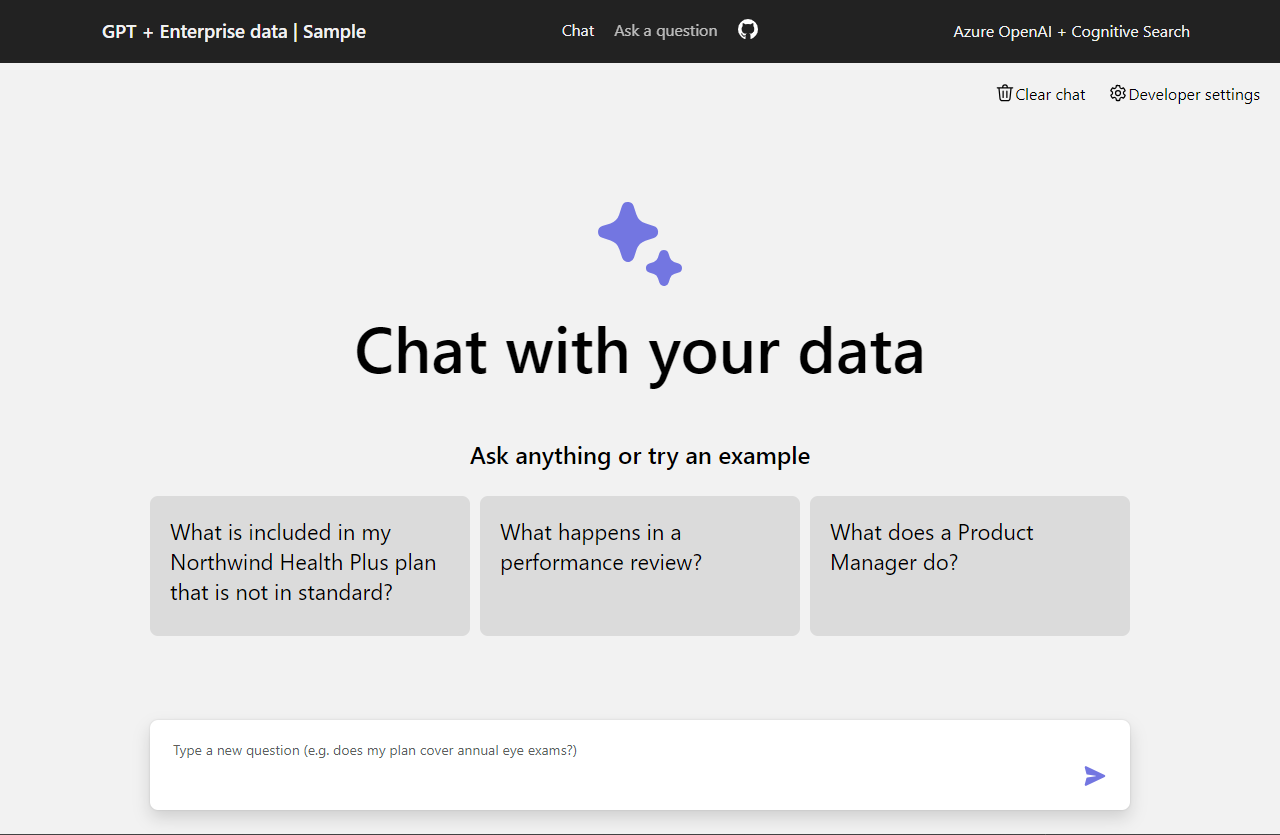
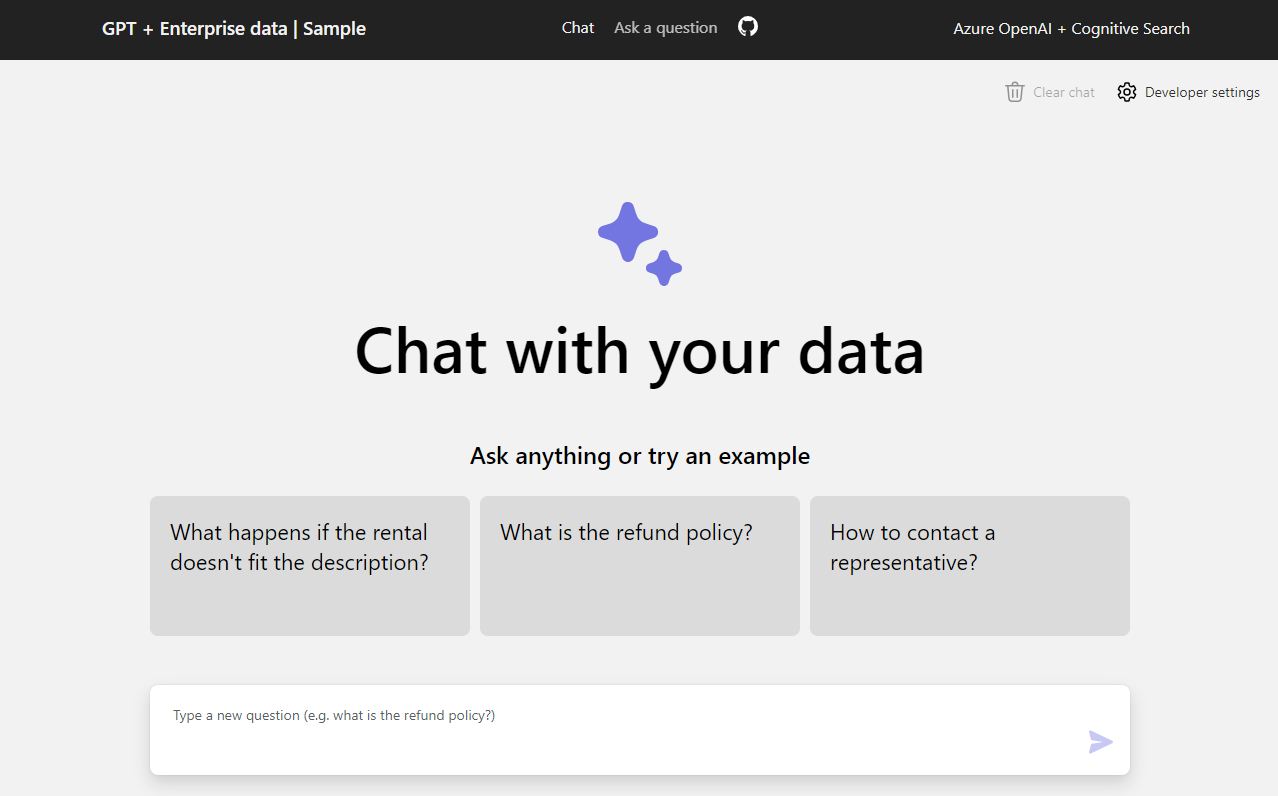
Switch to JS data set

diff --git a/articles/javascript/quickstart-intelligent-app-chat.md b/articles/javascript/quickstart-intelligent-app-chat.md
@@ -9,7 +9,9 @@ ms.custom: devx-track-javascript
 
 # Quickstart: Deploy an Azure OpenAI Chat app with your data in JavaScript
 
-In this quickstart, you deploy and use an intelligent Chat app to get answers about employee benefits at a fictitious company. The employee benefits chat app is seeded with PDF file including the employee handbook, a benefits document and a list of company roles and expectations. By following the instructions in this quickstart, you will:
+In this quickstart, you deploy and use an intelligent Chat app to get answers about rental properties. The rental properties chat app is seeded with data from markdown files (*.md) including a privacy policy, terms of service, and support. 
+
+By following the instructions in this quickstart, you will:
 
 - Deploy an intelligent Chat app to Azure.
 - Get answers about employee benefits.
@@ -139,15 +141,15 @@ The sample repository contains all the code and configuration files you need to 
 
     :::image type="content" source="./media/quickstart-intelligent-app-chat/browser-chat-with-your-data.png" alt-text="Screenshot of intelligent chat app in browser showing several suggestions for chat input and the chat text box to enter a question.":::
 
-### Use intelligent Chat app to get answers from PDF file catalog
+### Use intelligent Chat app to get answers from markdown file catalog
 
-The chat app is preloaded with employee benefits information from a [PDF file catalog](https://github.com/Azure-Samples/azure-search-openai-javascript/tree/main/data). You can use the chat app to ask questions about the benefits. The following steps walk you through the process of using the chat app.
+The chat app is preloaded with rental information from a [markdown file catalog](https://github.com/Azure-Samples/azure-search-openai-javascript/tree/main/data). You can use the chat app to ask questions about the rental process. The following steps walk you through the process of using the chat app.
 
 1. In the browser, enter a question about the catalog in the text box at the bottom of the page such as one of the following: 
 
-    * Does my plan cover annual eye exams?
-    * What is my deductible?
-    * How do I switch roles? 
+    * What happens if the rental doesn't fit the description?
+    * What is the refund policy?
+    * How to contact a representative? 
 
     :::image type="content" source="./media/quickstart-intelligent-app-chat/browser-chat-initial-answer.png" alt-text="Screenshot of intelligent chat app's first answer.":::
 
